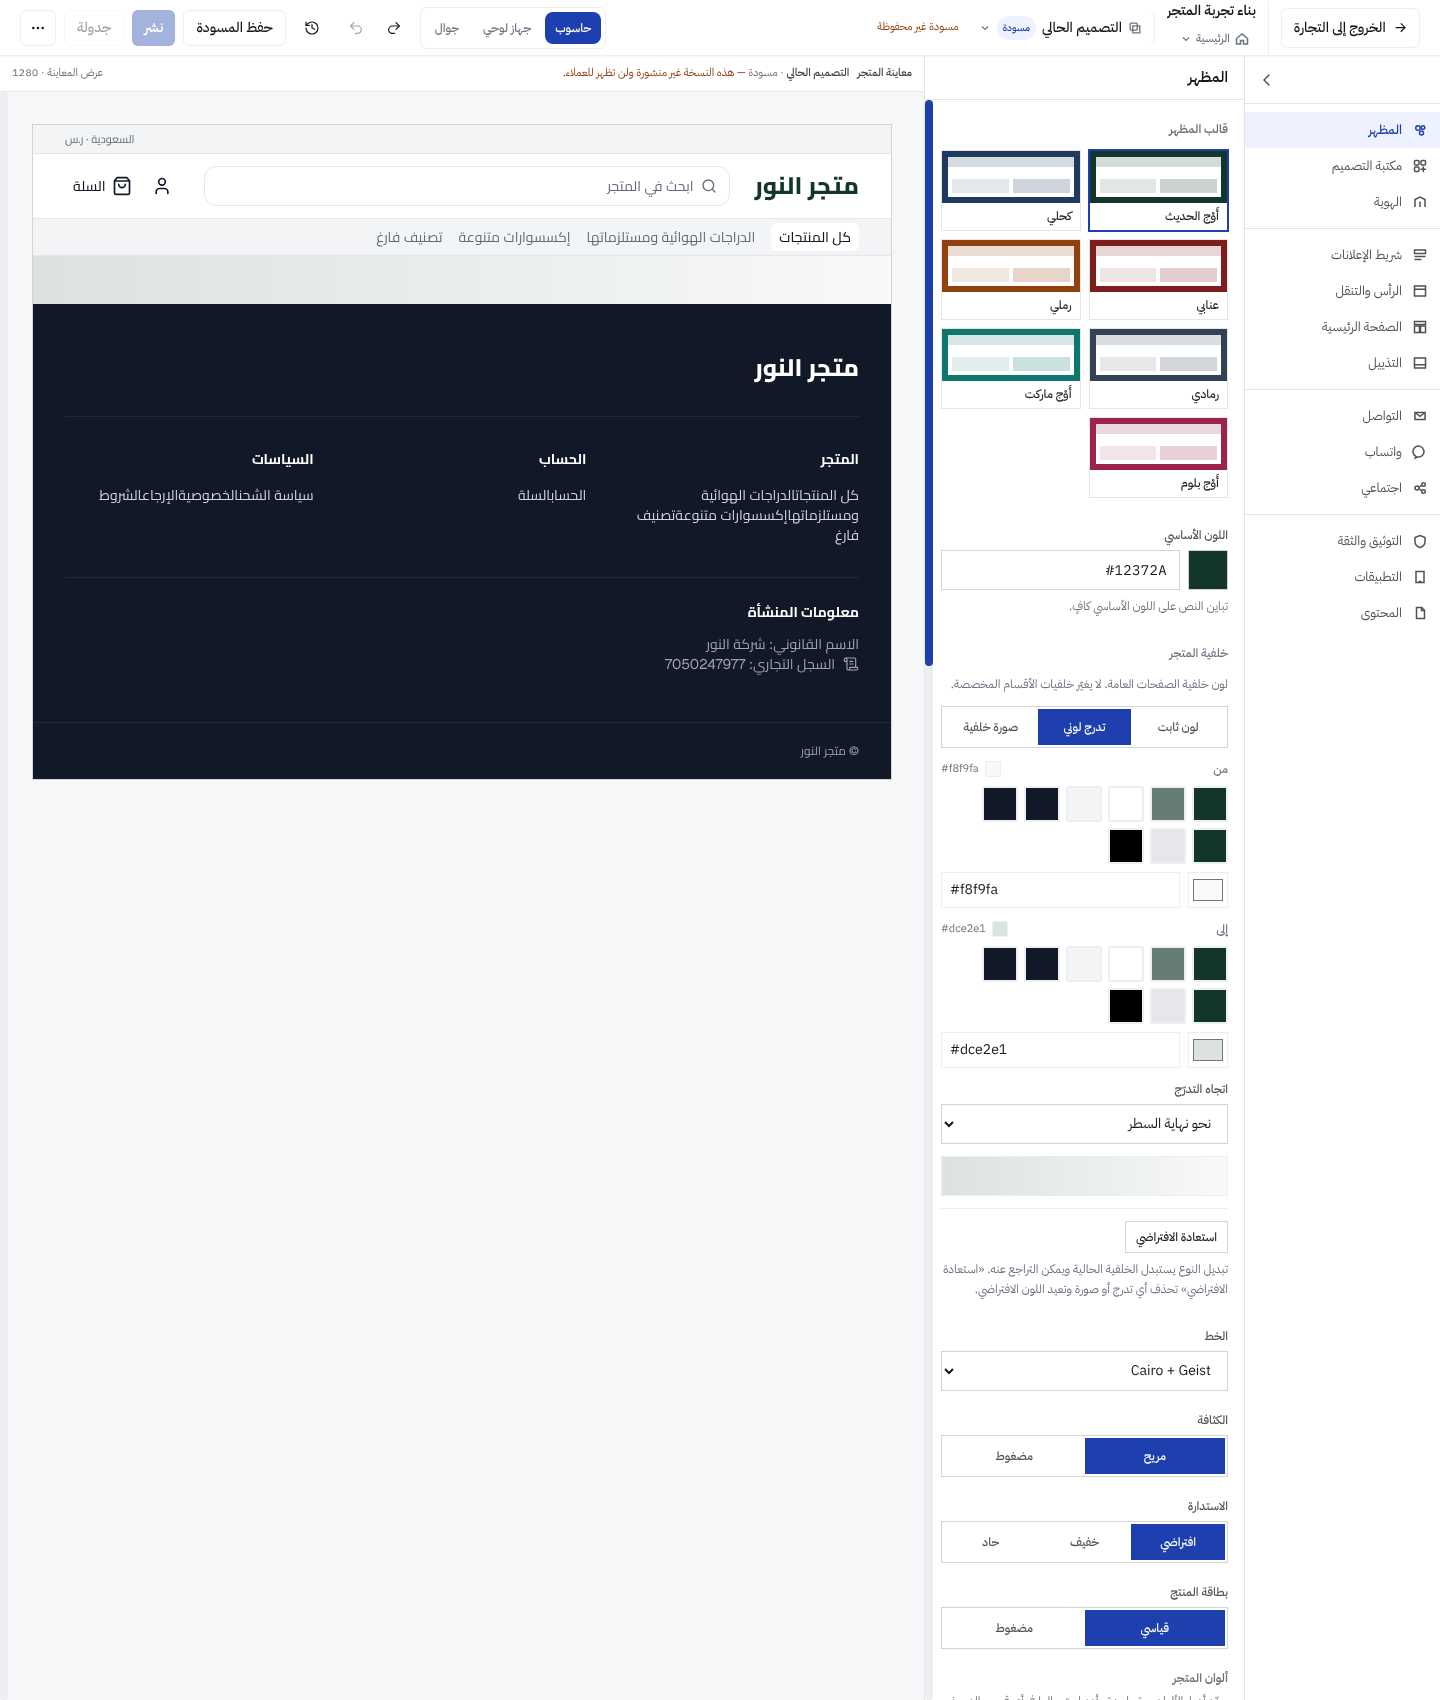
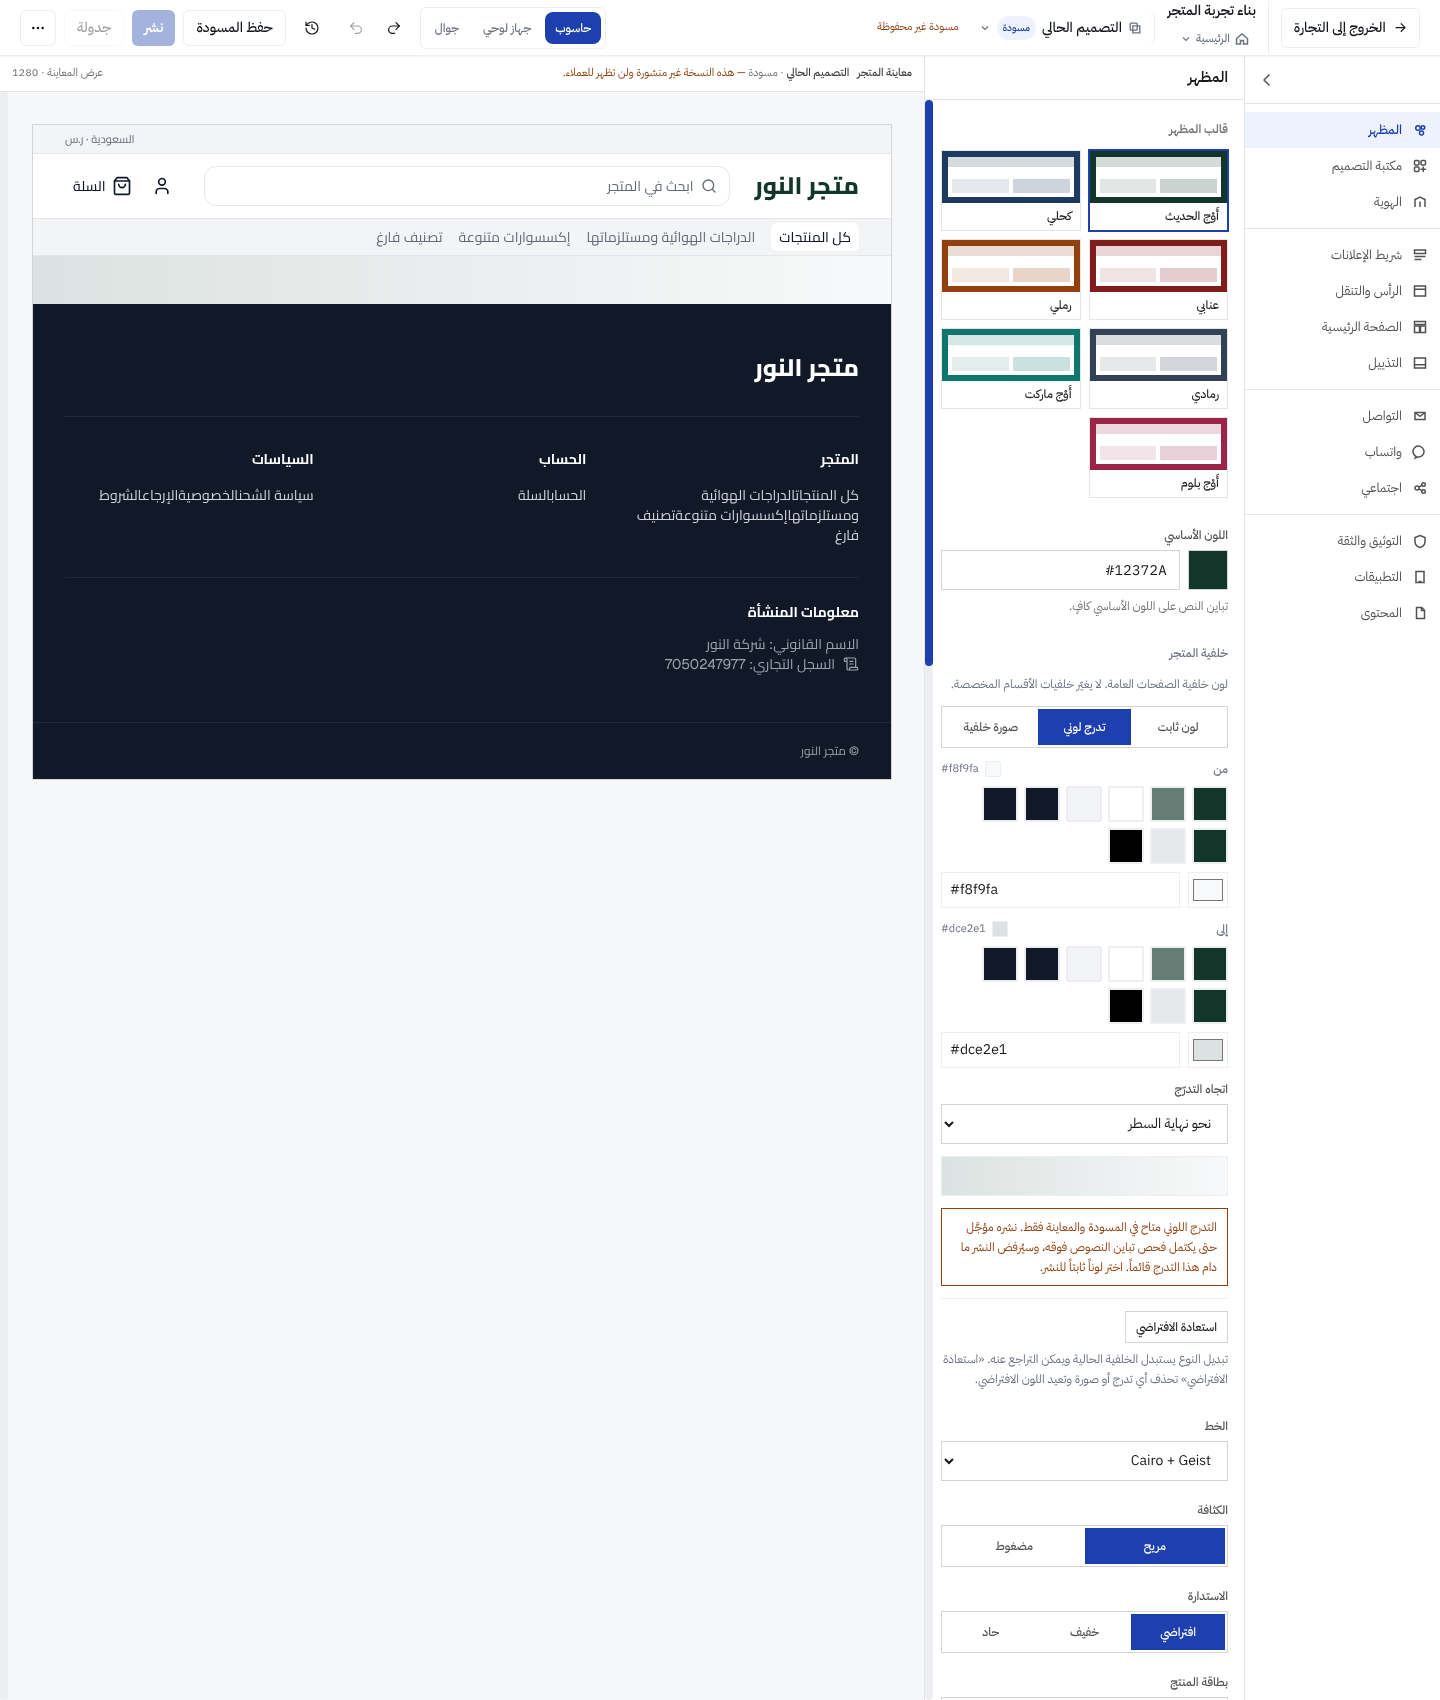
test(store-builder): cover the gradient draft-only note in visual QA
Claude-Session: https://claude.ai/code/session_017wQvHUzHMew91mTXZrLYNM

Changed region(s): [[0.6562, 0.7171, 0.875, 1.0], [0.6875, 0.9041, 0.7188, 0.9665], [0.6875, 0.8418, 0.7188, 0.8729]]

diff --git a/web/e2e/p3-a-05-global-background-editor.spec.ts b/web/e2e/p3-a-05-global-background-editor.spec.ts
@@ -62,6 +62,9 @@ test.describe('P3-A-05 — global background editor (visual)', () => {
       await field.locator('[data-global-bg-direction]').selectOption('to-end');
       const image = await canvas.evaluate((el) => getComputedStyle(el).backgroundImage);
       expect(image).toContain(dir === 'rtl' ? 'to left' : 'to right');
+      // a gradient is saved and previewed, but flagged draft-only: its contrast over text is not proven yet
+      await expect(field.locator('[data-global-bg-draft-only="gradient"]')).toBeVisible();
+      await expect(field.locator('[data-global-bg-draft-only="image"]')).toHaveCount(0);
       await field.screenshot({ path: path.join(evidenceDir, `${locale}-2-gradient.png`) });
       await page.screenshot({ path: path.join(evidenceDir, `${locale}-2-gradient-page.png`) });
 
@@ -93,7 +96,9 @@ test.describe('P3-A-05 — global background editor (visual)', () => {
       await page.screenshot({ path: path.join(evidenceDir, `${locale}-4-image-configured-page.png`) });
 
       // Restore default removes the advanced object entirely (not just the colour).
+      await expect(field.locator('[data-global-bg-draft-only="image"]')).toBeVisible();
       await field.getByRole('button', { name: names.reset }).click();
+      await expect(field.locator('[data-global-bg-draft-only]')).toHaveCount(0);
       await expect(page.locator('[data-global-background-layer]')).toHaveCount(0);
       await expect(field.getByRole('button', { name: names.solid })).toHaveAttribute('aria-pressed', 'true');
       await expect(canvas).toHaveCSS('background-image', 'none');
